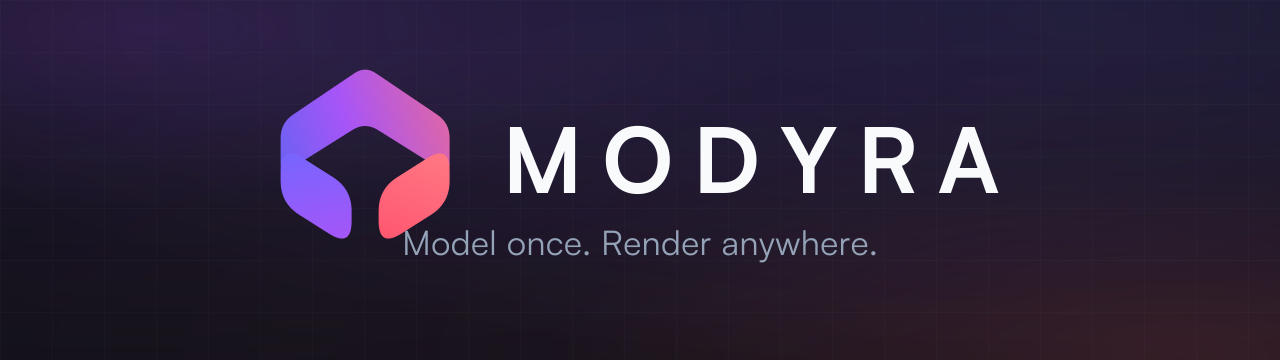
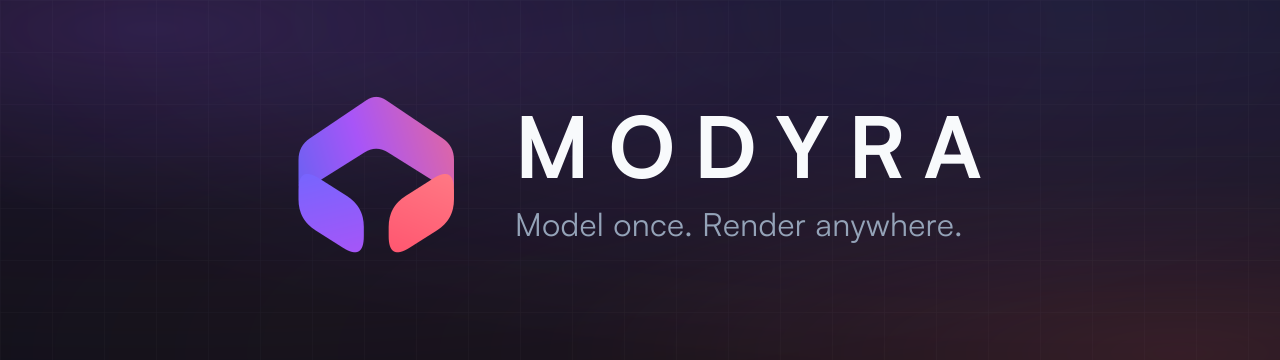
docs(repo): update readme and zod docs

Changed region(s): [[0.2188, 0.1833, 0.7812, 0.7333]]

diff --git a/README.md b/README.md
@@ -1,6 +1,6 @@
 <picture>
   <source media="(prefers-color-scheme: dark)" srcset="docs/assets/brand/readme-banner-dark.png">
-  <img src="docs/assets/brand/readme-banner-light.png" alt="Modyra — Model once. Render anywhere.">
+  <img src="docs/assets/brand/readme-banner-dark.png" alt="Modyra — Model once. Render anywhere.">
 </picture>
 
 # Modyra
@@ -23,16 +23,16 @@ core, one shared headless widget layer, one shared theme package.
 
 ## Packages
 
-| Package                             | What it is                                                                    | Peer deps                       |
-| :---------------------------------- | :---------------------------------------------------------------------------- | :------------------------------ |
-| [`@modyra/core`](packages/core)     | Framework-agnostic form engine: typed field trees, validation, drafts, undo/redo, i18n/date/time utilities | —                               |
-| [`@modyra/widgets`](packages/widgets) | Headless widget controllers + universal interaction/accessibility contract   | —                               |
-| [`@modyra/angular`](packages/angular) | Angular binding on native signals — the most complete adapter (UI catalog, devtools, wizard, interop) | `@angular/*` ≥21                |
-| [`@modyra/react`](packages/react)   | React binding via `useSyncExternalStore`                                       | `react` ≥18                     |
-| [`@modyra/vue`](packages/vue)       | Vue binding on `@vue/reactivity`                                               | `@vue/reactivity` ≥3.4          |
-| [`@modyra/lit`](packages/lit)       | Lit binding — ReactiveController + themable form elements                      | `lit` ≥3                        |
-| [`@modyra/zod`](packages/zod)       | Framework-agnostic Zod adapter — schema-first typed forms                      | `zod` ≥3.25                     |
-| [`@modyra/styles`](packages/styles) | CSS themes (`default`, `material`, `ios`, `ionic`, `base`) for every adapter   | —                               |
+| Package                               | What it is                                                                                                 | Peer deps              |
+| :------------------------------------ | :--------------------------------------------------------------------------------------------------------- | :--------------------- |
+| [`@modyra/core`](packages/core)       | Framework-agnostic form engine: typed field trees, validation, drafts, undo/redo, i18n/date/time utilities | —                      |
+| [`@modyra/widgets`](packages/widgets) | Headless widget controllers + universal interaction/accessibility contract                                 | —                      |
+| [`@modyra/angular`](packages/angular) | Angular binding on native signals — the most complete adapter (UI catalog, devtools, wizard, interop)      | `@angular/*` ≥21       |
+| [`@modyra/react`](packages/react)     | React binding via `useSyncExternalStore`                                                                   | `react` ≥18            |
+| [`@modyra/vue`](packages/vue)         | Vue binding on `@vue/reactivity`                                                                           | `@vue/reactivity` ≥3.4 |
+| [`@modyra/lit`](packages/lit)         | Lit binding — ReactiveController + themable form elements                                                  | `lit` ≥3               |
+| [`@modyra/zod`](packages/zod)         | Framework-agnostic Zod adapter — schema-first typed forms                                                  | `zod` ≥3.25            |
+| [`@modyra/styles`](packages/styles)   | CSS themes (`default`, `material`, `ios`, `ionic`, `base`) for every adapter                               | —                      |
 
 ## Install (Angular)
 
@@ -166,13 +166,13 @@ ReactiveController.
 
 ## Angular entry points
 
-| Import                    | Contents                                  | Extra peer deps                        |
-| :------------------------ | :---------------------------------------- | :------------------------------------- |
-| `@modyra/angular`         | Full bundle: adapter + UI + tools         | —                                      |
-| `@modyra/angular/adapter` | Headless Angular adapter layer only       | —                                      |
-| `@modyra/angular/ui`      | UI primitives and built-in renderers only | —                                      |
-| `@modyra/angular/zod`     | `mdyFormFromSchema()`                     | `@modyra/zod` + `zod` (optional)       |
-| `@modyra/angular/interop` | `mdyCva` for Reactive Forms               | `@angular/forms` (optional)            |
+| Import                    | Contents                                  | Extra peer deps                  |
+| :------------------------ | :---------------------------------------- | :------------------------------- |
+| `@modyra/angular`         | Full bundle: adapter + UI + tools         | —                                |
+| `@modyra/angular/adapter` | Headless Angular adapter layer only       | —                                |
+| `@modyra/angular/ui`      | UI primitives and built-in renderers only | —                                |
+| `@modyra/angular/zod`     | `mdyFormFromSchema()`                     | `@modyra/zod` + `zod` (optional) |
+| `@modyra/angular/interop` | `mdyCva` for Reactive Forms               | `@angular/forms` (optional)      |
 
 ## Documentation
 

diff --git a/packages/zod/README.md b/packages/zod/README.md
@@ -1,0 +1,40 @@
+# @modyra/zod
+
+Framework-agnostic [Zod](https://zod.dev) adapter for the Modyra form engine — schema-first typed forms.
+
+Turns a `z.object(...)` schema into a Modyra form: field tree, initial values and validators are derived from the schema, and object-level refinements become cross-field validators.
+
+## Install
+
+```bash
+npm install @modyra/zod zod
+```
+
+`zod` is a peer dependency (`>=3.25.0`, Zod 4 supported). The adapter uses only public Zod APIs (`safeParse`, `.shape`, `instanceof ZodObject`), so it stays compatible across Zod 3.25+ and 4.x.
+
+## Usage
+
+```ts
+import { z } from "zod";
+import { createZodForm } from "@modyra/zod";
+
+const schema = z.object({
+  email: z.string().email(),
+  age: z.number().min(18),
+});
+
+const form = createZodForm(schema);
+```
+
+## API
+
+- `createZodForm(schema, options?)` — builds a Modyra form engine from a `z.ZodObject`.
+- `buildZodTree(schema)` — derives the `MdyFormSchema` field tree from an object schema.
+- `buildZodRefinementValidator(schema)` — wraps object-level refinements (`.refine`, `.superRefine`) as a Modyra cross-field validator.
+- `MdyZodSchemaTree`, `MdyZodFormOptions` — supporting types.
+
+See the [Modyra repository](https://github.com/modyra/modyra#readme) for full documentation and guides.
+
+## License
+
+MIT

diff --git a/CONTRIBUTING.md b/CONTRIBUTING.md
@@ -5,7 +5,7 @@
 ```bash
 npm run setup        # install deps + build the library
 npm start            # demo app at localhost:4200
-npm test             # 16 suites (unit + compile-time type tests, zoneless)
+npm test             # Angular unit + compile-time type tests (zoneless)
 npm run test:bundle  # tree-shaking proof
 npm run build:lib    # all four entry points
 ```
